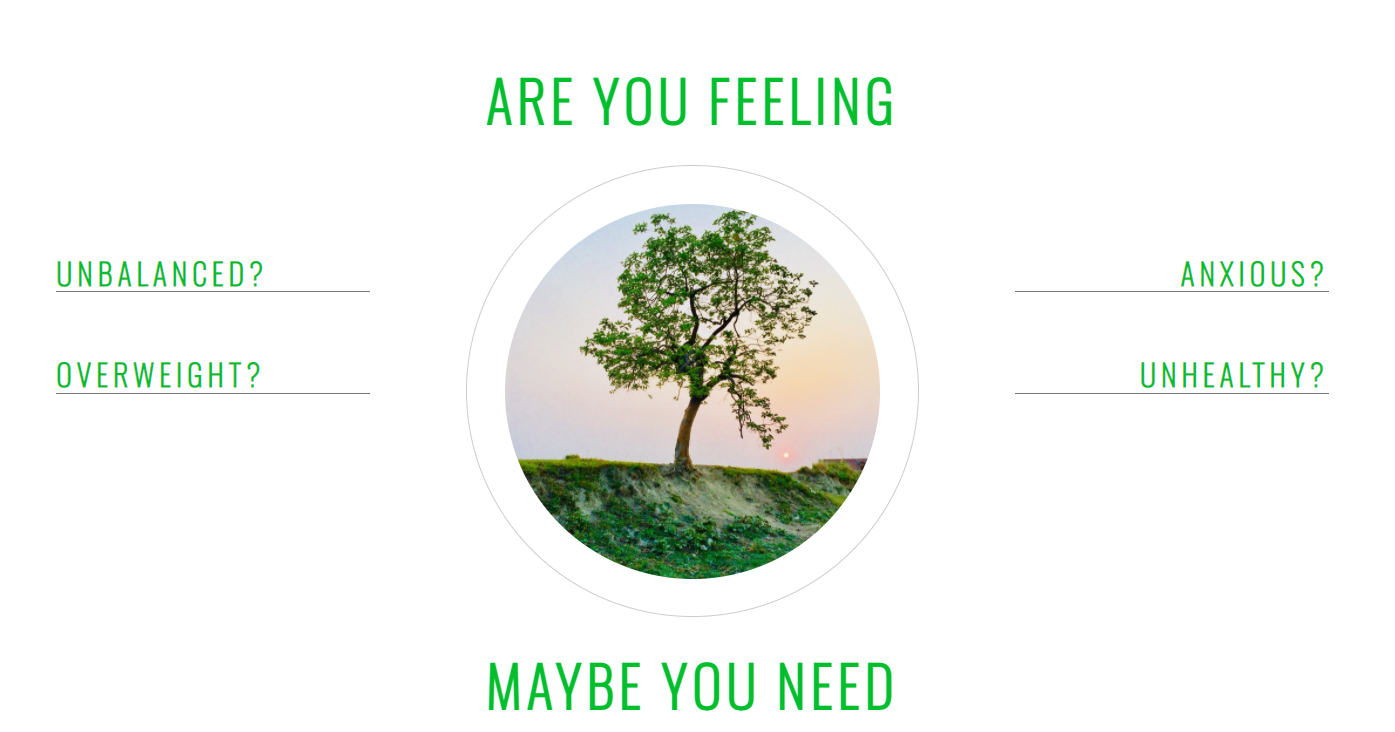
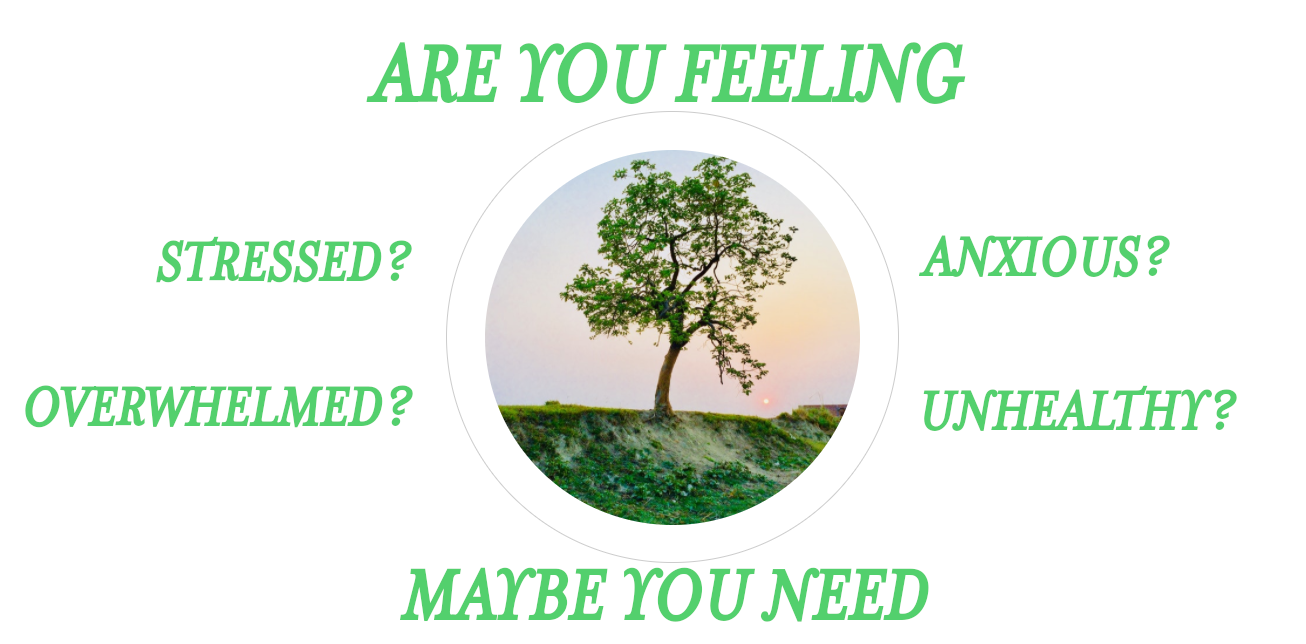
small update today

diff --git a/index.html b/index.html
@@ -3,18 +3,18 @@
   
     <meta charset="utf-8">
     <meta name="viewport" content="width=device-width, initial-scale=1">
-   <link href="assets/css/style.css" rel="stylesheet" type="text/css" />
+    <link href="assets/css/style.css" rel="stylesheet" type="text/css" />
+    <link rel="preconnect" href="https://fonts.googleapis.com">
+    <link rel="preconnect" href="https://fonts.gstatic.com" crossorigin>  
+    <link href="https://fonts.googleapis.com/css2?family=Baskervville&display=swap" rel="stylesheet">
     <title>Centered</title>
     
     
-   
-  <div class="wrap">
-  <body>
+<body style="width: 100%;">   
+  <div class="borders">
+    
 
-     <div class="header">
-            <h1>CENTERED</h1>
-      </div>  
-     
+   
       
       <div class="img-container ">
           <img class="main-image"  src="assets/img/centered-main-image.png" alt="centered-main-picture">
@@ -22,119 +22,123 @@
     
       </div>
 
+      <div >
+        <h2 class="heading2">CENTERED</h2>
+      </div>
 
-<!--Slideshow-->
-<div class="slideshow-container">
-  <p class="mySlides1" >
-    Lorem ipsum dolor sit amet, consectetur adipiscing elit. Integer malesuada, felis sit amet porta cursus, magna est tincidunt odio, quis rhoncus ligula arcu eget sapien. Lorem ipsum dolor sit amet, consectetur adipiscing elit. In imperdiet aliquet purus, non tempus velit tempus nec. Nam semper quam dolor. Maecenas in molestie lectus, tincidunt fringilla massa. Fusce sagittis nulla eget vulputate dignissim. Nulla eu aliquam leo. Nam quis ipsum consectetur, viverra justo nec, finibus ex. Phasellus id orci ut urna fringilla porta. Duis at cursus elit. Cras dictum vehicula pretium.
-    Donec congue luctus sem, ultricies vehicula nibh scelerisque eu. Proin at molestie enim, in viverra lacus. Curabitur bibendum maximus ipsum, fermentum malesuada dui scelerisque quis. Quisque eu commodo massa. Suspendisse in pulvinar nisl. Pellentesque felis nisl, hendrerit at dignissim vitae, viverra dapibus tortor. Pellentesque mollis id tellus vitae sodales. Lorem ipsum dolor sit amet, consectetur adipiscing elit. Praesent ut bibendum eros, quis blandit tellus. Nam id eleifend quam, in lobortis dolor. 
-  </p> 
-  <p class="mySlides1" >
-    Lorem ipsum dolor sit amet, consectetur adipiscing elit. Integer malesuada, felis sit amet porta cursus, magna est tincidunt odio, quis rhoncus ligula arcu eget sapien. Lorem ipsum dolor sit amet, consectetur adipiscing elit. In imperdiet aliquet purus, non tempus velit tempus nec. Nam semper quam dolor. Maecenas in molestie lectus, tincidunt fringilla massa. Fusce sagittis nulla eget vulputate dignissim. Nulla eu aliquam leo. Nam quis ipsum consectetur, viverra justo nec, finibus ex. Phasellus id orci ut urna fringilla porta. Duis at cursus elit. Cras dictum vehicula pretium.
-    Donec congue luctus sem, ultricies vehicula nibh scelerisque eu. Proin at molestie enim, in viverra lacus. Curabitur bibendum maximus ipsum, fermentum malesuada dui scelerisque quis. Quisque eu commodo massa. Suspendisse in pulvinar nisl. Pellentesque felis nisl, hendrerit at dignissim vitae, viverra dapibus tortor. Pellentesque mollis id tellus vitae sodales. Lorem ipsum dolor sit amet, consectetur adipiscing elit. Praesent ut bibendum eros, quis blandit tellus. Nam id eleifend quam, in lobortis dolor. 
-  </p> 
-  <p class="mySlides1" >
-    Lorem ipsum dolor sit amet, consectetur adipiscing elit. Integer malesuada, felis sit amet porta cursus, magna est tincidunt odio, quis rhoncus ligula arcu eget sapien. Lorem ipsum dolor sit amet, consectetur adipiscing elit. In imperdiet aliquet purus, non tempus velit tempus nec. Nam semper quam dolor. Maecenas in molestie lectus, tincidunt fringilla massa. Fusce sagittis nulla eget vulputate dignissim. Nulla eu aliquam leo. Nam quis ipsum consectetur, viverra justo nec, finibus ex. Phasellus id orci ut urna fringilla porta. Duis at cursus elit. Cras dictum vehicula pretium.
-    Donec congue luctus sem, ultricies vehicula nibh scelerisque eu. Proin at molestie enim, in viverra lacus. Curabitur bibendum maximus ipsum, fermentum malesuada dui scelerisque quis. Quisque eu commodo massa. Suspendisse in pulvinar nisl. Pellentesque felis nisl, hendrerit at dignissim vitae, viverra dapibus tortor. Pellentesque mollis id tellus vitae sodales. Lorem ipsum dolor sit amet, consectetur adipiscing elit. Praesent ut bibendum eros, quis blandit tellus. Nam id eleifend quam, in lobortis dolor. 
-  </p> 
-  <p class="mySlides1" >
-    Lorem ipsum dolor sit amet, consectetur adipiscing elit. Integer malesuada, felis sit amet porta cursus, magna est tincidunt odio, quis rhoncus ligula arcu eget sapien. Lorem ipsum dolor sit amet, consectetur adipiscing elit. In imperdiet aliquet purus, non tempus velit tempus nec. Nam semper quam dolor. Maecenas in molestie lectus, tincidunt fringilla massa. Fusce sagittis nulla eget vulputate dignissim. Nulla eu aliquam leo. Nam quis ipsum consectetur, viverra justo nec, finibus ex. Phasellus id orci ut urna fringilla porta. Duis at cursus elit. Cras dictum vehicula pretium.
-    Donec congue luctus sem, ultricies vehicula nibh scelerisque eu. Proin at molestie enim, in viverra lacus. Curabitur bibendum maximus ipsum, fermentum malesuada dui scelerisque quis. Quisque eu commodo massa. Suspendisse in pulvinar nisl. Pellentesque felis nisl, hendrerit at dignissim vitae, viverra dapibus tortor. Pellentesque mollis id tellus vitae sodales. Lorem ipsum dolor sit amet, consectetur adipiscing elit. Praesent ut bibendum eros, quis blandit tellus. Nam id eleifend quam, in lobortis dolor. 
-  </p> 
-  <a class="prev" onclick="plusSlides(-1)">&#10094;</a>
-  <a class="next" onclick="plusSlides(1)">&#10095;</a>
-</div>
+    <!--Slideshow-->
+    <div class="slideshow-container">
+        <p class="mySlides1" >
+          Lorem ipsum dolor sit amet, consectetur adipiscing elit. Integer malesuada, felis sit amet porta cursus, magna est tincidunt odio, quis rhoncus ligula arcu eget sapien. Lorem ipsum dolor sit amet, consectetur adipiscing elit. In imperdiet aliquet purus, non tempus velit tempus nec. Nam semper quam dolor. Maecenas in molestie lectus, tincidunt fringilla massa. Fusce sagittis nulla eget vulputate dignissim. Nulla eu aliquam leo. Nam quis ipsum consectetur, viverra justo nec, finibus ex. Phasellus id orci ut urna fringilla porta. Duis at cursus elit. Cras dictum vehicula pretium.
+          Donec congue luctus sem, ultricies vehicula nibh scelerisque eu. Proin at molestie enim, in viverra lacus. Curabitur bibendum maximus ipsum, fermentum malesuada dui scelerisque quis. Quisque eu commodo massa. Suspendisse in pulvinar nisl. Pellentesque felis nisl, hendrerit at dignissim vitae, viverra dapibus tortor. Pellentesque mollis id tellus vitae sodales. Lorem ipsum dolor sit amet, consectetur adipiscing elit. Praesent ut bibendum eros, quis blandit tellus. Nam id eleifend quam, in lobortis dolor. 
+        </p> 
+        <p class="mySlides1" >
+          Lorem ipsum dolor sit amet, consectetur adipiscing elit. Integer malesuada, felis sit amet porta cursus, magna est tincidunt odio, quis rhoncus ligula arcu eget sapien. Lorem ipsum dolor sit amet, consectetur adipiscing elit. In imperdiet aliquet purus, non tempus velit tempus nec. Nam semper quam dolor. Maecenas in molestie lectus, tincidunt fringilla massa. Fusce sagittis nulla eget vulputate dignissim. Nulla eu aliquam leo. Nam quis ipsum consectetur, viverra justo nec, finibus ex. Phasellus id orci ut urna fringilla porta. Duis at cursus elit. Cras dictum vehicula pretium.
+          Donec congue luctus sem, ultricies vehicula nibh scelerisque eu. Proin at molestie enim, in viverra lacus. Curabitur bibendum maximus ipsum, fermentum malesuada dui scelerisque quis. Quisque eu commodo massa. Suspendisse in pulvinar nisl. Pellentesque felis nisl, hendrerit at dignissim vitae, viverra dapibus tortor. Pellentesque mollis id tellus vitae sodales. Lorem ipsum dolor sit amet, consectetur adipiscing elit. Praesent ut bibendum eros, quis blandit tellus. Nam id eleifend quam, in lobortis dolor. 
+        </p> 
+        <p class="mySlides1" >
+          Lorem ipsum dolor sit amet, consectetur adipiscing elit. Integer malesuada, felis sit amet porta cursus, magna est tincidunt odio, quis rhoncus ligula arcu eget sapien. Lorem ipsum dolor sit amet, consectetur adipiscing elit. In imperdiet aliquet purus, non tempus velit tempus nec. Nam semper quam dolor. Maecenas in molestie lectus, tincidunt fringilla massa. Fusce sagittis nulla eget vulputate dignissim. Nulla eu aliquam leo. Nam quis ipsum consectetur, viverra justo nec, finibus ex. Phasellus id orci ut urna fringilla porta. Duis at cursus elit. Cras dictum vehicula pretium.
+          Donec congue luctus sem, ultricies vehicula nibh scelerisque eu. Proin at molestie enim, in viverra lacus. Curabitur bibendum maximus ipsum, fermentum malesuada dui scelerisque quis. Quisque eu commodo massa. Suspendisse in pulvinar nisl. Pellentesque felis nisl, hendrerit at dignissim vitae, viverra dapibus tortor. Pellentesque mollis id tellus vitae sodales. Lorem ipsum dolor sit amet, consectetur adipiscing elit. Praesent ut bibendum eros, quis blandit tellus. Nam id eleifend quam, in lobortis dolor. 
+        </p> 
+        <p class="mySlides1" >
+          Lorem ipsum dolor sit amet, consectetur adipiscing elit. Integer malesuada, felis sit amet porta cursus, magna est tincidunt odio, quis rhoncus ligula arcu eget sapien. Lorem ipsum dolor sit amet, consectetur adipiscing elit. In imperdiet aliquet purus, non tempus velit tempus nec. Nam semper quam dolor. Maecenas in molestie lectus, tincidunt fringilla massa. Fusce sagittis nulla eget vulputate dignissim. Nulla eu aliquam leo. Nam quis ipsum consectetur, viverra justo nec, finibus ex. Phasellus id orci ut urna fringilla porta. Duis at cursus elit. Cras dictum vehicula pretium.
+          Donec congue luctus sem, ultricies vehicula nibh scelerisque eu. Proin at molestie enim, in viverra lacus. Curabitur bibendum maximus ipsum, fermentum malesuada dui scelerisque quis. Quisque eu commodo massa. Suspendisse in pulvinar nisl. Pellentesque felis nisl, hendrerit at dignissim vitae, viverra dapibus tortor. Pellentesque mollis id tellus vitae sodales. Lorem ipsum dolor sit amet, consectetur adipiscing elit. Praesent ut bibendum eros, quis blandit tellus. Nam id eleifend quam, in lobortis dolor. 
+        </p> 
+        <a class="prev" onclick="plusSlides(-1)">&#10094;</a>
+        <a class="next" onclick="plusSlides(1)">&#10095;</a>
+      </div>
 
-<div class="slideshow-container">
-  <div class="mySlides2">
-    <div class="numbertext">1 / 3</div>
-    <img src="assets/img/Photos/1-crystal-topdown.jpg" >
-    <div class="text">Caption Text</div>
+      <div class="slideshow-container2">
+        <div class="mySlides2">
+          <div class="numbertext">1 / 3</div>
+          <img src="assets/img/Photos/1-crystal-topdown.jpg" width="100%" height="50%" >
+          <div class="text">Caption Text</div>
+        </div>
+        
+        <div class="mySlides2">
+          <div class="numbertext">2 / 3</div>
+          <img src="assets/img/Photos/7-topdown.jpg" >
+          <div class="text">Caption Two</div>
+        </div>
+        
+        <div class="mySlides2">
+          <div class="numbertext">3 / 3</div>
+          <img src="assets/img/Photos/8-crystals.jpg" >
+          <div class="text">Caption Three</div>
+        </div>
+
+        <div class="mySlides2">
+          <div class="numbertext">3 / 3</div>
+          <img src="assets/img/Photos/bracelet-on stone.jpg" >
+          <div class="text">Caption Three</div>
+        </div>
+
+        <div class="mySlides2">
+          <div class="numbertext">3 / 3</div>
+          <img src="assets/img/Photos/craem-crystal-onsquare.jpg" >
+          <div class="text">Caption Three</div>
+        </div>
+
+        <div class="mySlides2">
+          <div class="numbertext">3 / 3</div>
+          <img src="assets/img/Photos/crystal-onheart.jpg" >
+          <div class="text">Caption Three</div>
+        </div>
+
+        <div class="mySlides2">
+          <div class="numbertext">3 / 3</div>
+          <img src="assets/img/Photos/crystal-onsquare.jpg" >
+          <div class="text">Caption Three</div>
+        </div>
+
+        <div class="mySlides2">
+          <div class="numbertext">3 / 3</div>
+          <img src="assets/img/Photos/green-onhand.jpg" >
+          <div class="text">Caption Three</div>
+        </div>
+
+        <div class="mySlides2">
+          <div class="numbertext">3 / 3</div>
+          <img src="assets/img/Photos/white-onhand.jpg" >
+          <div class="text">Caption Three</div>
+        </div>
+
+        <div class="mySlides2">
+          <div class="numbertext">3 / 3</div>
+          <img src="assets/img/Photos/whitebracelet-onstone.jpg" >
+          <div class="text">Caption Three</div>
+        </div>
+        <a class="prev" onclick="plusSlides(-1)">&#10094;</a>
+        <a class="next" onclick="plusSlides(1)">&#10095;</a>
+      </div>
+
+      <script>
+      var slideIndex = [1,1];
+      var slideId = ["mySlides1", "mySlides2"]
+      showDivs(1, 0);
+      showDivs(1, 1);
+
+      function plusDivs(n, no) {
+        showDivs(slideIndex[no] += n, no);
+      }
+
+      function showDivs(n, no) {
+        var i;
+        var x = document.getElementsByClassName(slideId[no]);
+        if (n > x.length) {slideIndex[no] = 1}
+        if (n < 1) {slideIndex[no] = x.length}
+        for (i = 0; i < x.length; i++) {
+          x[i].style.display = "none";  
+          }
+          x[slideIndex[no]-1].style.display = "block";  
+        }
+        </script>
+    
+
+
+
   </div>
-  
-  <div class="mySlides2">
-    <div class="numbertext">2 / 3</div>
-    <img src="assets/img/Photos/7-topdown.jpg" >
-    <div class="text">Caption Two</div>
-  </div>
-  
-  <div class="mySlides2">
-    <div class="numbertext">3 / 3</div>
-    <img src="assets/img/Photos/8-crystals.jpg" >
-    <div class="text">Caption Three</div>
-  </div>
-
-  <div class="mySlides2">
-    <div class="numbertext">3 / 3</div>
-    <img src="assets/img/Photos/bracelet-on stone.jpg" >
-    <div class="text">Caption Three</div>
-  </div>
-
-  <div class="mySlides2">
-    <div class="numbertext">3 / 3</div>
-    <img src="assets/img/Photos/craem-crystal-onsquare.jpg" >
-    <div class="text">Caption Three</div>
-  </div>
-
-  <div class="mySlides2">
-    <div class="numbertext">3 / 3</div>
-    <img src="assets/img/Photos/crystal-onheart.jpg" >
-    <div class="text">Caption Three</div>
-  </div>
-
-  <div class="mySlides2">
-    <div class="numbertext">3 / 3</div>
-    <img src="assets/img/Photos/crystal-onsquare.jpg" >
-    <div class="text">Caption Three</div>
-  </div>
-
-  <div class="mySlides2">
-    <div class="numbertext">3 / 3</div>
-    <img src="assets/img/Photos/green-onhand.jpg" >
-    <div class="text">Caption Three</div>
-  </div>
-
-  <div class="mySlides2">
-    <div class="numbertext">3 / 3</div>
-    <img src="assets/img/Photos/white-onhand.jpg" >
-    <div class="text">Caption Three</div>
-  </div>
-
-  <div class="mySlides2">
-    <div class="numbertext">3 / 3</div>
-    <img src="assets/img/Photos/whitebracelet-onstone.jpg" >
-    <div class="text">Caption Three</div>
-  </div>
-  <a class="prev" onclick="plusSlides(-1)">&#10094;</a>
-  <a class="next" onclick="plusSlides(1)">&#10095;</a>
-</div>
-
-<script>
-var slideIndex = [1,1];
-var slideId = ["mySlides1", "mySlides2"]
-showDivs(1, 0);
-showDivs(1, 1);
-
-function plusDivs(n, no) {
-  showDivs(slideIndex[no] += n, no);
-}
-
-function showDivs(n, no) {
-  var i;
-  var x = document.getElementsByClassName(slideId[no]);
-  if (n > x.length) {slideIndex[no] = 1}
-  if (n < 1) {slideIndex[no] = x.length}
-  for (i = 0; i < x.length; i++) {
-    x[i].style.display = "none";  
-  }
-  x[slideIndex[no]-1].style.display = "block";  
-}
-</script>
-
-
-
-
-</body>
+</body>  
 </html> 
 
                    

diff --git a/assets/css/style.css b/assets/css/style.css
@@ -1,28 +1,16 @@
-@import url('https://fonts.googleapis.com/css2?family=Lato:wght@300&family=Oswald:wght@200&display=swap');
 
+@import url('https://fonts.googleapis.com/css2?family=Baskervville&display=swap');
 
-
-
-
-
-
-
-
-.header {
-    margin-bottom: 3%;
-    padding: 30px;
-    text-align: center;
-    background: rgb(32, 141, 58);
-    color: white;
-    font-size: 190%;
-    height: 30%;
-    font-family: 'Macondo Swash Caps', cursive;
-    align-items: center;
-    justify-content: center;
-    display: flex;
-    
-    
+body{
+  overflow: hidden;
 }
+
+.borders{
+  width:100%;
+  border-left:20px solid rgb(114,216,135);
+  border-right:20px solid rgb(114,216,135);
+}
+
 
 .img-container{
   
@@ -40,6 +28,18 @@
   display: block;
 }
 
+.heading2{
+  
+  
+    padding: ;
+    text-align: center;
+    color: rgb(114,216,135);
+    font-size: 500%;
+    font-family: 'Baskervville', serif;
+    justify-content: center;
+    display: flex;
+    
+}
 
 
 
@@ -55,10 +55,16 @@ img {vertical-align: middle;}
   margin: auto;
 }
 
-.slideshow-container-two {
+.slideshow-container2 {
   max-width: 40%;
   position: relative;
   margin: auto;
+}
+
+.mySlides2{
+  max-width: 100%;
+  height: auto;
+  display: block;
 }
 
 /* Next & previous buttons */
